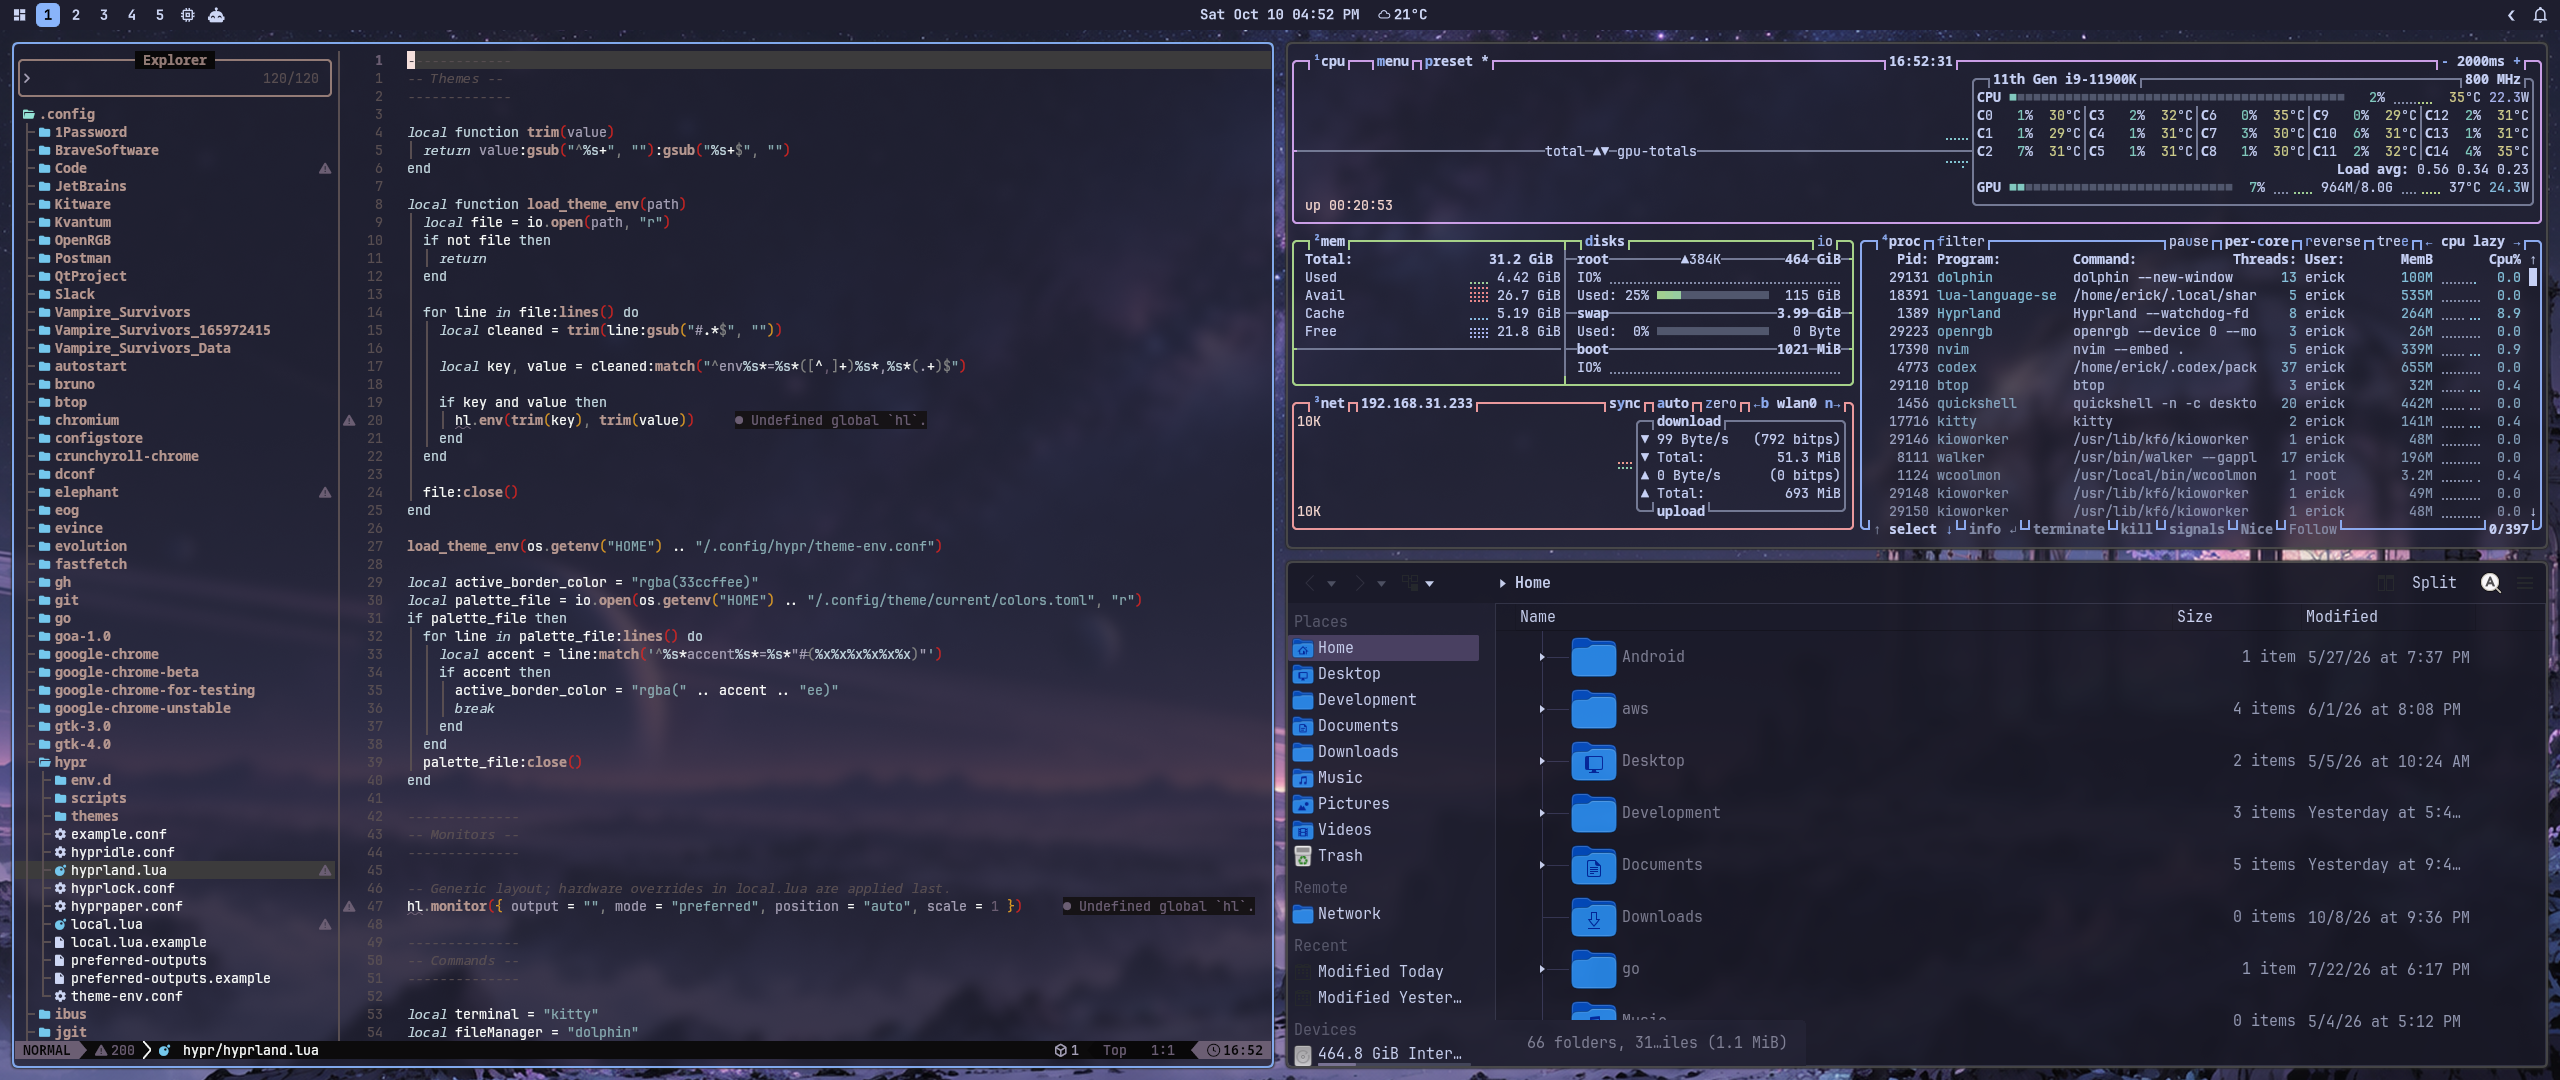
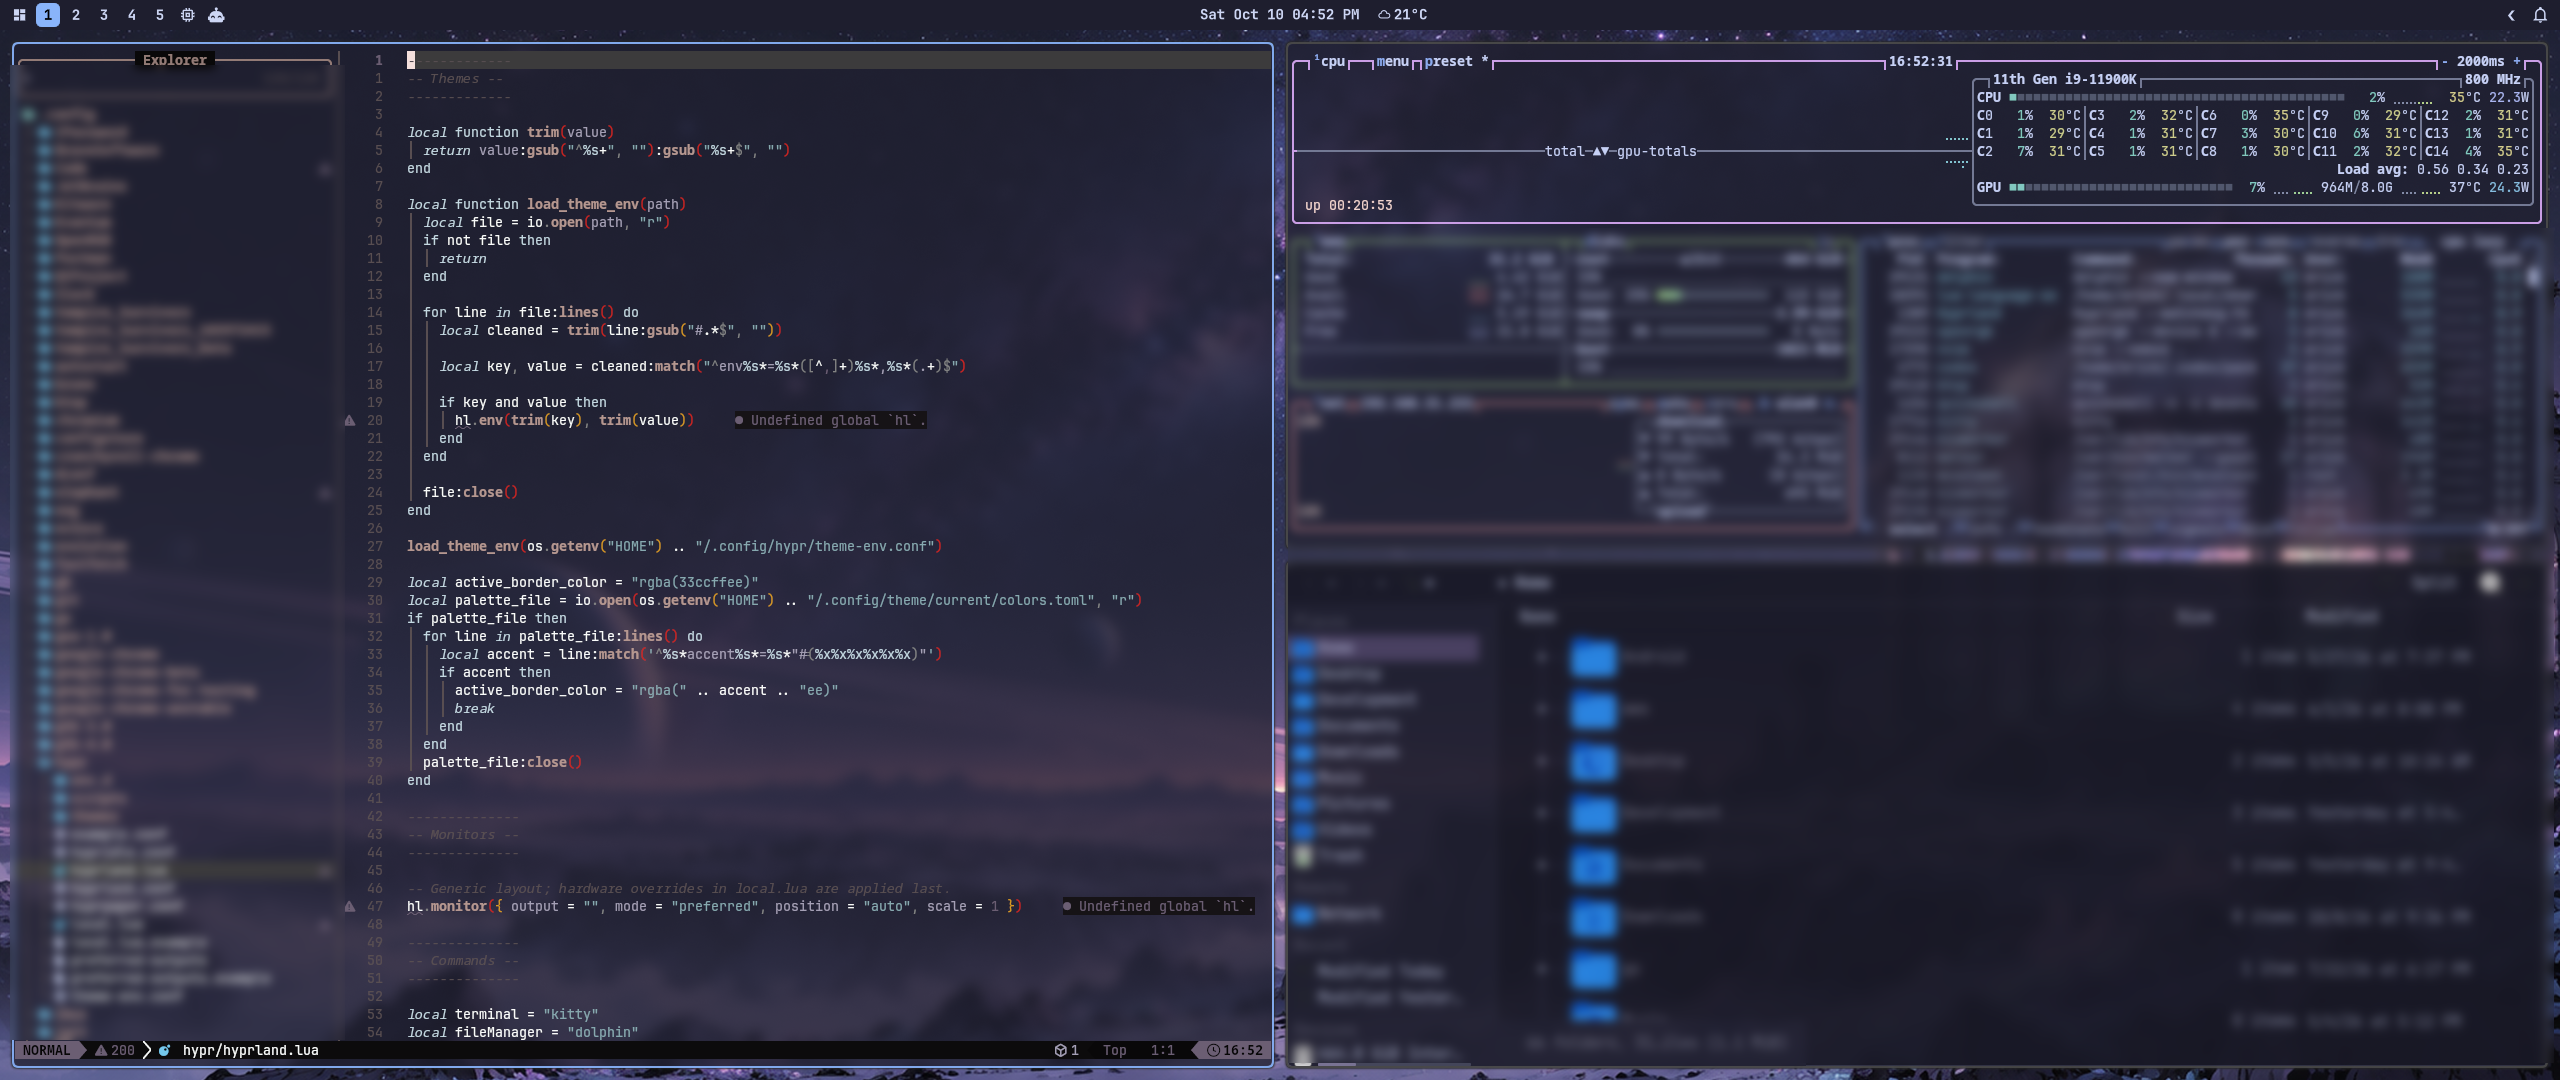
Blur private details in the theme previews
The file tree, btop's process and network panels and Dolphin's file list
showed real folder names, the user name and a LAN address; a soft blur
hides the text and keeps each theme's colours.

diff --git a/TODO.md b/TODO.md
@@ -148,12 +148,9 @@ repository) becomes the first plugin.
   (`/pt-br/...`), `hreflang` and sitemap entries first; keep English the default
   and keep untranslated pages falling back to English.
 - **Website evidence and screenshots.** Keep the new public information pages in
-  step with verified desktop behavior. Retake all 15 `themes/*/preview.png` on a
-  staged demo (sample project in nvim, btop without user names or addresses,
-  Dolphin on a demo folder): the current ones show real home folders, the user
-  name and a LAN address. Add lockscreen, dictation waveform and Packages picker
-  shots. Captures switch the live theme, so take them when the owner says. Describe remote
-  access as verified only after the real-device tests above pass.
+  step with verified desktop behavior. Add lockscreen, dictation waveform and
+  Packages picker shots, taken when the owner says. Describe remote access as
+  verified only after the real-device tests above pass.
 - **Search indexing and measurement.** The owner verifies eitr.info in Google
   Search Console and Bing Webmaster Tools, submits the sitemap and inspects
   public-page indexing. Track impressions, queries and clicks there without
